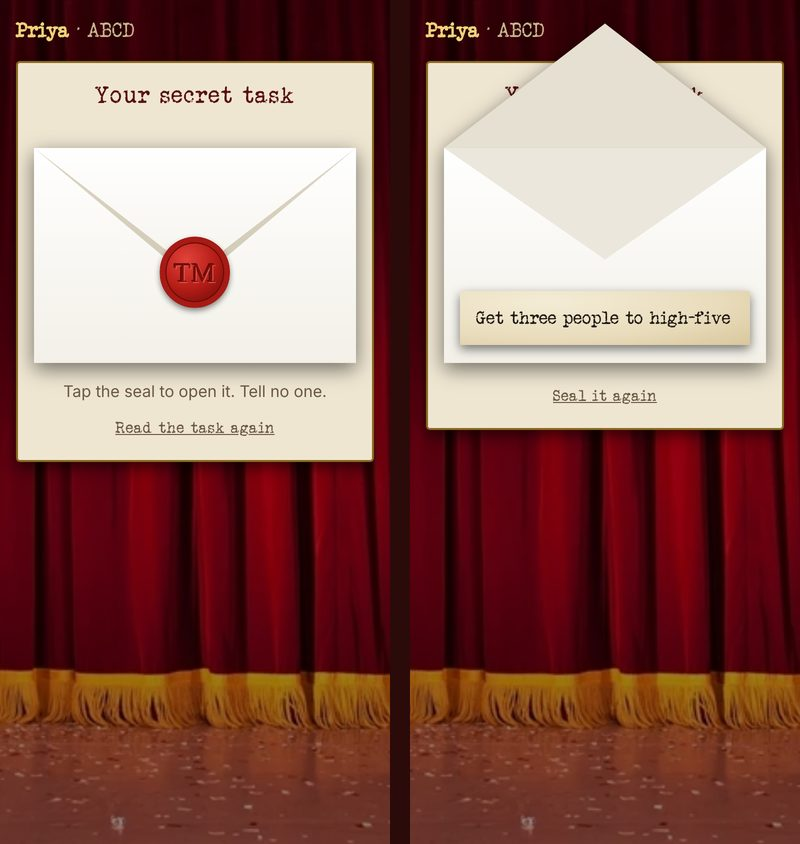
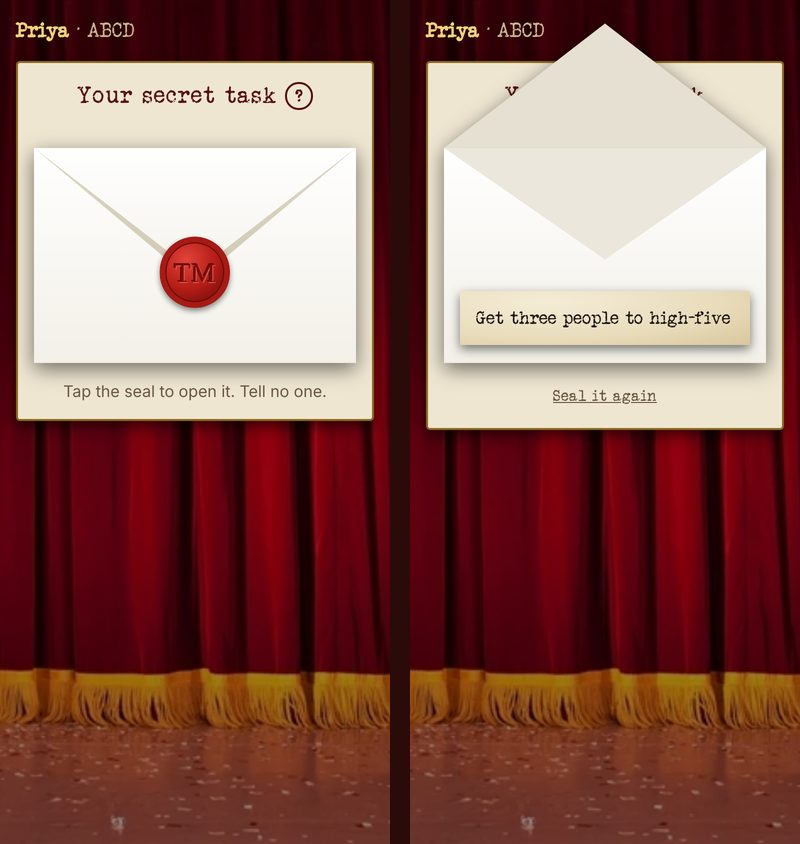
Secret tasks: the rules unfold from a circled ? beside the heading
Replaces the "Read the task again" / "Hide the task" link under the envelope,
which sat far from where the card appears and made the page jump.

Claude-Session: https://claude.ai/code/session_01SM2rVXwtAWVxdZH9V8TcNG

Changed region(s): [[0.0, 0.4929, 0.4688, 0.5853], [0.0938, 0.0924, 0.4062, 0.1232]]

diff --git a/src/games/secretTasks/PlayerView.tsx b/src/games/secretTasks/PlayerView.tsx
@@ -131,7 +131,7 @@ function Pile({ code, uid, session, onPicked }: { code: string; uid: string; ses
  * A player's secret task. Until they have one: the pile of envelopes to pick from. After: their own
  * envelope, sealed. Tap the seal to open it and "Seal it again" to close it, every time (holding it open was
  * too awkward mid-game); it also seals itself when the phone locks or the page is left. While it's sealed,
- * "Read the task again" unfolds the rules card above it.
+ * the circled ? beside the heading unfolds the rules card (the Taskmaster task) right under it, and folds it away.
  */
 export function SecretEnvelope({ code, uid, session, onPicked = () => {} }: { code: string; uid: string; session: Session; onPicked?: () => void }) {
   const task = useMyTask(code, uid);
@@ -158,17 +158,18 @@ export function SecretEnvelope({ code, uid, session, onPicked = () => {} }: { co
 
   return (
     <section className="slot envelope-slot">
-      <h2>Your secret task</h2>
+      <h2 className="with-help">
+        Your secret task
+        <button className="help-q" aria-label={rules ? "Hide the rules" : "Read the rules again"} aria-expanded={rules}
+          style={open ? { visibility: "hidden" } : undefined} onClick={() => setRules(!rules)}>?</button>
+      </h2>
       {rules && !open && <TaskCard lines={RULES} small />}
       <div className="env-stack">
         <Envelope open={open} onOpen={() => { setOpen(true); setRules(false); }} />
         {open && <Letter task={task} instant={seen} />}
       </div>
       {open ? <button className="link" onClick={() => setOpen(false)}>Seal it again</button>
-        : <>
-            <p className="slot-hint">Tap the seal to open it. Tell no one.</p>
-            <button className="link" aria-expanded={rules} onClick={() => setRules(!rules)}>{rules ? "Hide the task" : "Read the task again"}</button>
-          </>}
+        : <p className="slot-hint">Tap the seal to open it. Tell no one.</p>}
     </section>
   );
 }

diff --git a/src/styles.css b/src/styles.css
@@ -985,6 +985,15 @@ button.pile-spot:active { box-shadow: none; }
 .envelope-slot.arrival > .stamp { justify-self: center; }
 .envelope-slot.arrival > h2 { text-align: center; }
 .envelope-slot > .link { justify-self: center; }
+/* the heading's circled ?: unfolds the rules card right under it */
+.envelope-slot h2.with-help { display: flex; align-items: center; justify-content: center; gap: 0.5rem; }
+.help-q {
+  flex: none; width: 1.7rem; height: 1.7rem; padding: 0; border-radius: 50%; display: grid; place-items: center;
+  border: 2px solid currentColor; background: none; box-shadow: none; color: inherit;
+  font-family: var(--typewriter); font-size: 1rem; font-weight: bold; line-height: 1;
+}
+.help-q[aria-expanded="true"] { background: var(--burgundy); color: var(--paper); border-color: var(--burgundy); }
+button.help-q:active { transform: none; box-shadow: none; }
 
 /* Secret Tasks' reveal opening: the same pile as the finish screen, still sealed, each envelope hanging in */
 .finale-spot.sealed { animation: hang 0.7s cubic-bezier(0.2, 0.9, 0.3, 1.15) backwards; }

diff --git a/docs/redesign-decisions.md b/docs/redesign-decisions.md
@@ -172,7 +172,7 @@ Guests join and pick their envelope at the door, before they can see the big scr
 | --- | --- | --- |
 | Arrival | "✓ You're in" and "Welcome, Alex!", then the rules on the big screen's task card (torn paper, typewriter, red TM wax seal), then "Pick an envelope" and the pile. The rules, word for word: "Secretly complete your secret task." (the label) / "Select a secret task and read it silently to yourself. You must complete your secret task before the TASKMASTER says, "can everyone keep a secret?"" / "You must complete your task secretly, but also perceptibly." / "You must not reveal your secret task to anyone else." / "Your time starts now." | The pile replacing the "You're in" card (today). "Look for your name on the big screen": they can't see it yet. "One secret task each. Choose carefully. Tell no one.": the card says it all. |
 | Picking from the pile | "Move them around if you like, then tap one." Guests can drag envelopes around the pile before picking, so none stays hidden under another: a dragged envelope lifts with a deeper shadow and lands on top. The moves stay on that phone. A tap picks; a press that travels more than a few pixels is a drag and never picks. Swiping on the empty pile still scrolls the page. | Tap only: envelopes under others can't be reached. Sharing the moves with every phone: one guest's tidying would shuffle the pile under another's thumb. |
-| Your envelope | Picking opens it straight away. Sealed: "Tap the seal to open it. Tell no one." and a quiet "Read the task again" link that unfolds the rules card above the envelope. Open: the task gets the whole screen (the card hides) and "Seal it again". | The rules card always above the envelope: bulk every time they check. |
+| Your envelope | Picking opens it straight away. Sealed: "Tap the seal to open it. Tell no one." and a circled ? beside "Your secret task" that unfolds the rules card right under the heading (filled while it's open; tap again to fold it). Open: the task gets the whole screen (the card and the ? hide) and "Seal it again". | The rules card always above the envelope: bulk every time they check. A "Read the task again" link under the envelope (the first version): it sat far from where the card appears, so the page jumped away from the thumb. |
 | Reveal opening | "Start the reveal →" puts up a title card: "Can everyone keep a secret?" (the rules' deadline) over a scattered pile of sealed envelopes, one per guest with a task, hanging in. The host phone reads "On the big screen: Can everyone keep a secret?" with gold "First up: Sam →" in the same spot. | Jumping straight to the first envelope (today): the room misses the deadline. A card that leaves on a timer: it could cut the host off mid-line. |
 | Peeking later | Tap the seal to open the envelope and "Seal it again" to close it, every time. It also seals itself when the phone locks or the guest leaves the page, so a phone put down open doesn't stay open. After the first reading the task shows at once instead of typing out. | Hold to peek (the first version): too awkward in real gameplay. |
 | Empty pile | The stamp and rules card stay, then "No envelopes left yet. The host knows. More will appear here." The pile appears by itself when tasks are added. Rare: the host always has extras. | "Check back soon, or ask the host." (today): it hands the guest a job. A buzz when envelopes arrive: the phone stays quiet everywhere else. |

diff --git a/docs/screens/README.md b/docs/screens/README.md
@@ -66,4 +66,5 @@ Scoreboard (taken on 2026-10-12, from the real components with made-up sessions;
 | `secret-tasks-host-pile-open.jpg` | The same page with "▾ The pile (5)" opened |
 | `secret-tasks-player-pile-drag.jpg` | A guest's phone picking an envelope: the pile, then an envelope being dragged off the others |
 | `secret-tasks-player-envelope.jpg` | A guest's envelope: sealed ("Tap the seal to open it."), and open with "Seal it again" |
+| `secret-tasks-player-rules.jpg` | A guest's envelope with the circled ? beside the heading, closed and then open on the rules card |
 | `secret-tasks-host-send-back.jpg` | "Who has what" with Sam's ✎ open: Save, Cancel and "Send it back to the pile" |
